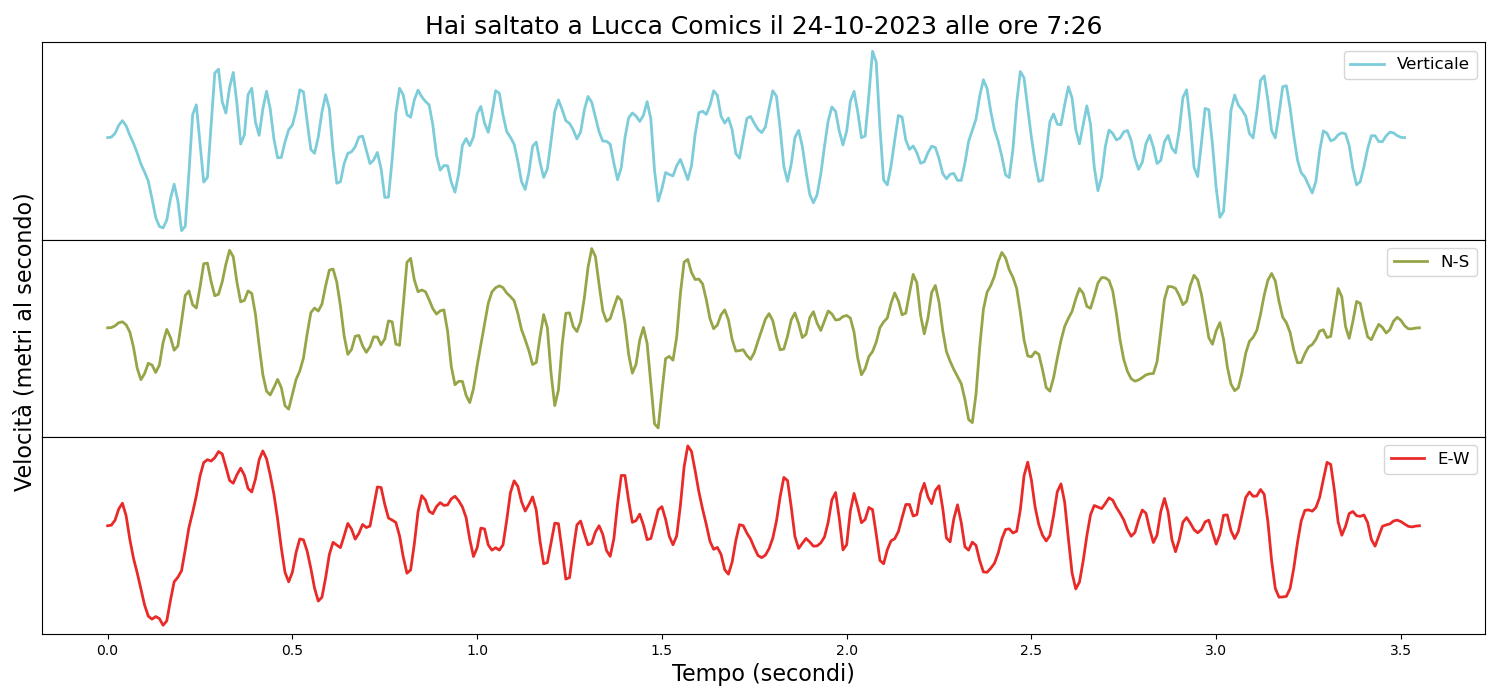
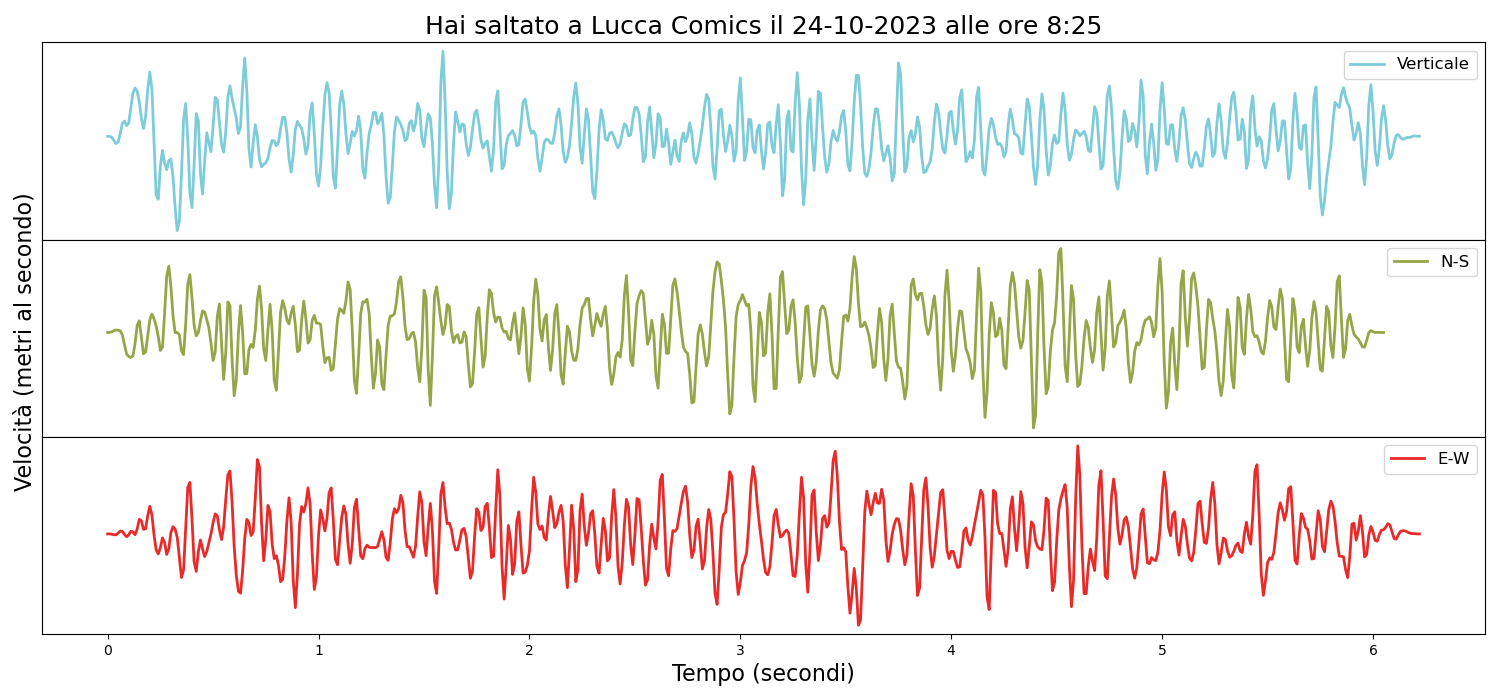
versione funzionante

diff --git a/plot_w.py b/plot_w.py
@@ -1,0 +1,82 @@
+def plot_waveform(mseed):
+    import datetime
+    import matplotlib.pyplot as plt
+    from matplotlib.pyplot import savefig
+    import matplotlib.image as mpimg
+    mseed.detrend("demean")
+    mseed.filter("bandpass", freqmin=2,freqmax=20) 
+    mseed.taper(0.05)
+
+    utc=mseed[0].stats.starttime+3600
+    dt = datetime.datetime.strptime(str(utc), "%Y-%m-%dT%H:%M:%S.%fZ")
+    #print(dt.strftime("%H"),dt.strftime("%M"))
+
+    day=dt.strftime("%d")
+    month=dt.strftime("%m")
+    year=dt.strftime("%Y")
+    data = str(day)+"-"+str(month)+"-"+str(year)
+    
+    hour=dt.strftime("%H")
+    minute=dt.strftime("%M")
+    second=dt.strftime("%S")
+    ora=str(hour)+":"+str(minute)+":"+str(second)
+
+    fig = plt.figure(figsize=(26, 14))
+    axs = fig.subplots(3, 1, sharex=True, gridspec_kw={'hspace': 0})
+
+    for i in range(3):
+        axs[i].set_yticks([])
+
+    axs[0].plot(mseed.select(component="Z")[0].times(), mseed.select(component="Z")[0].data, label='Verticale', color=(0.49,0.8,0.85),lw=2)
+    axs[1].plot(mseed.select(component="N")[0].times(), mseed.select(component="N")[0].data, label='N-S' , color=(0.58,0.65,0.28),lw=2)
+    axs[2].plot(mseed.select(component="E")[0].times(), mseed.select(component="E")[0].data, label='E-W', color=(0.91,0.17,0.16),lw=2)
+
+    axs[2].set_xlabel("Tempo (secondi)",fontsize=36)
+    axs[1].set_ylabel("Velocità del suolo ",fontsize=36)
+    axs[0].set_title("Hai saltato a Lucca Comics il "+data+" alle ore "+ora,fontsize=48)
+
+    axs[0].legend(fontsize=24)
+    axs[1].legend(fontsize=24)
+    axs[2].legend(fontsize=24)
+    plt.xticks(fontsize=24)
+    plt.tight_layout()
+    savefig('earthquake.png',dpi=300)
+    plt.close()
+    return
+def mosaic():
+    import matplotlib.pyplot as plt
+    from matplotlib.pyplot import savefig
+    import matplotlib.image as mpimg
+    fig, axd = plt.subplot_mosaic(
+    [["lucca"],
+     ['linea'],
+     ["mseed"],
+     ['ingv']
+    ],
+    layout="constrained",
+    # "image" will contain a square image. We fine-tune the width so that
+    # there is no excess horizontal or vertical margin around the image.
+    height_ratios=[1.3,.5,4.5,.35],
+    width_ratios=[1],
+    )
+    #fig = plt.figure(dpi=300, tight_layout=True)
+    fig.set_size_inches(11.69, 8.27, forward=True)
+    fig.set_size_inches(11.69, 8.27, forward=True)
+    # Plot the MRI image
+    im=mpimg.imread('./logo-lcg-edizione-2023.png')
+    axd["lucca"].imshow(im)
+    axd["lucca"].axis('off')
+    im=mpimg.imread('./linea.png')
+    axd["linea"].imshow(im)
+    axd["linea"].axis('off')
+    im=mpimg.imread('./INGV_LOGO_STESO.png')
+    axd["ingv"].imshow(im)
+    axd["ingv"].axis('off')
+    im=mpimg.imread('./earthquake.png')
+    axd["mseed"].imshow(im)
+    axd["mseed"].axis('off')
+    plt.tight_layout()
+    #plt.show()
+    plt.savefig('mosaic.png')
+    plt.close()
+    return

diff --git a/Skake.py b/Skake.py
@@ -7,7 +7,7 @@ import matplotlib.pyplot as plt
 from matplotlib.pyplot import savefig
 from obspy.clients.seedlink import Client 
 client = Client('discovery.ingv.it',port=39962)
-
+#from plot_w import mosaic
 def plot_waveform(mseed):
     mseed.detrend("demean")
     mseed.filter("bandpass", freqmin=2,freqmax=20) 
@@ -44,7 +44,40 @@ def plot_waveform(mseed):
     plt.tight_layout()
     savefig('earthquake.png')
     return 
-
+def mosaic():
+    fig, axd = plt.subplot_mosaic(
+    [["lucca"],
+     ['linea'],
+     ["mseed"],
+     ['ingv']
+    ],
+    layout="constrained",
+    # "image" will contain a square image. We fine-tune the width so that
+    # there is no excess horizontal or vertical margin around the image.
+    height_ratios=[1.3,.5,4.5,.35],
+    width_ratios=[1],
+    )
+    #fig = plt.figure(dpi=300, tight_layout=True)
+    fig.set_size_inches(11.69, 8.27, forward=True)
+    fig.set_size_inches(11.69, 8.27, forward=True)
+    # Plot the MRI image
+    im=mpimg.imread('./logo-lcg-edizione-2023.png')
+    axd["lucca"].imshow(im)
+    axd["lucca"].axis('off')
+    im=mpimg.imread('./linea.png')
+    axd["linea"].imshow(im)
+    axd["linea"].axis('off')
+    im=mpimg.imread('./INGV_LOGO_STESO.png')
+    axd["ingv"].imshow(im)
+    axd["ingv"].axis('off')
+    im=mpimg.imread('./earthquake.png')
+    axd["mseed"].imshow(im)
+    axd["mseed"].axis('off')
+    plt.tight_layout()
+    #plt.show()
+    savefig('mosaic.png')
+    # plt.close()
+    return
 # First the window layout in 2 columns
 
 file_list_column = [
@@ -100,6 +133,7 @@ while True:
         end=endtime
         stream = client.get_waveforms("IV",'CRE','','HH?',start,end)
         plot_waveform(stream)
+        #mosaic()
         # try:
         #     # Get list of files in folder
         #     #file_list = os.listdir(folder)
@@ -110,7 +144,7 @@ while True:
             # start=starttime
             # command = ""
             # cmd = command
-            filename = 'earthquake.png'
+            filename = 'mosaic.png'
             #window["-TOUT-"].update(filename)
             window["-IMAGE-"].update(filename=filename)
 
